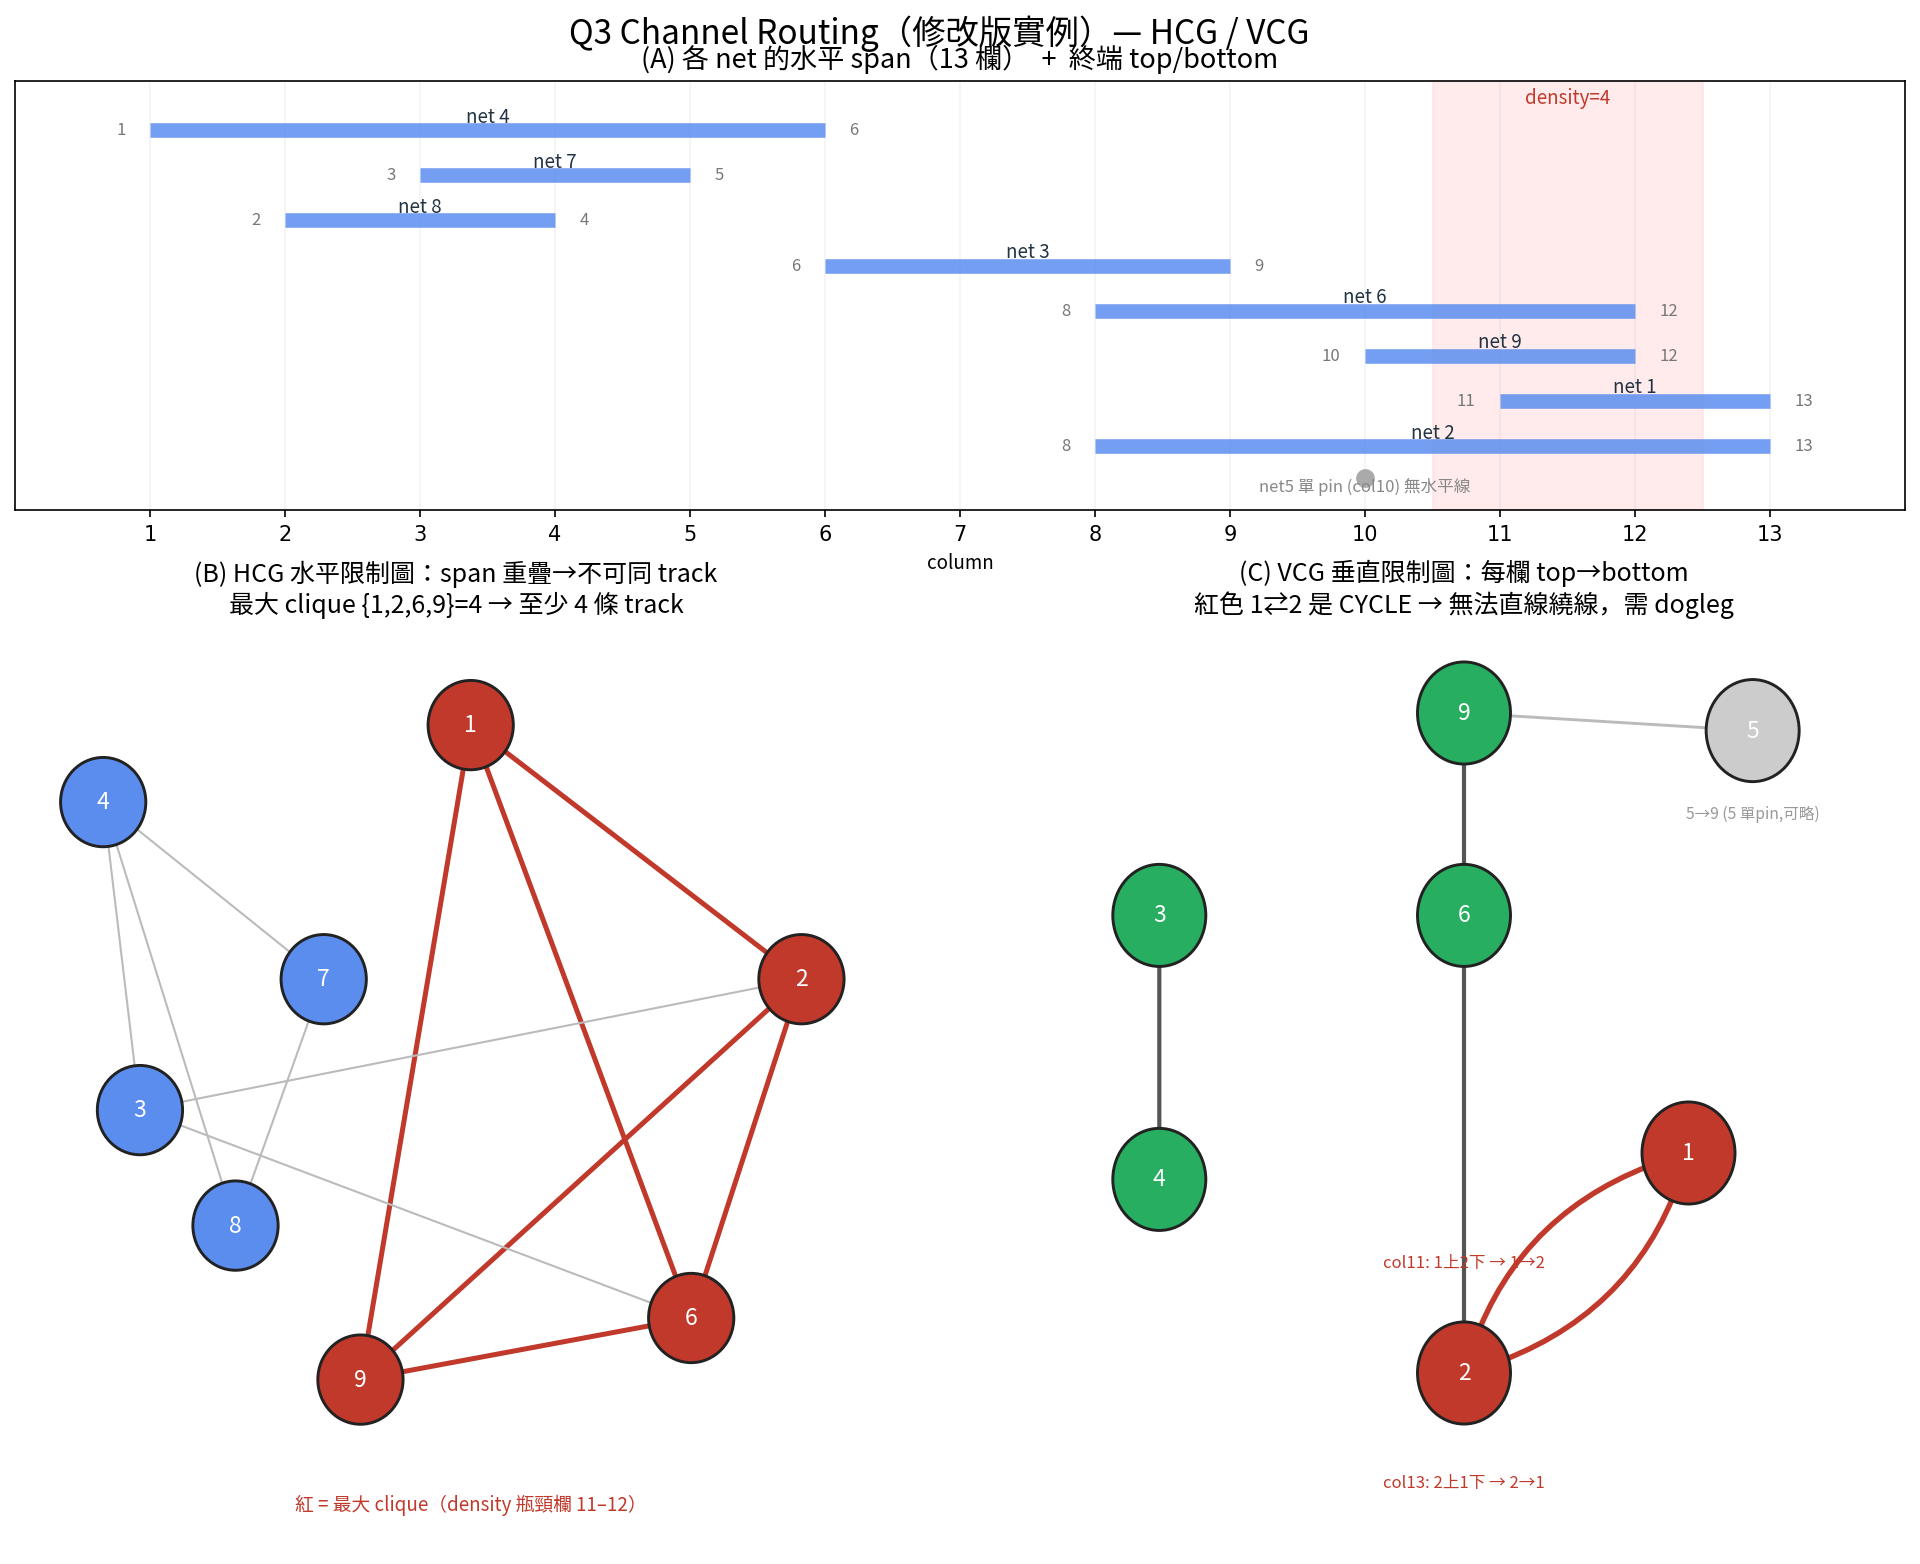
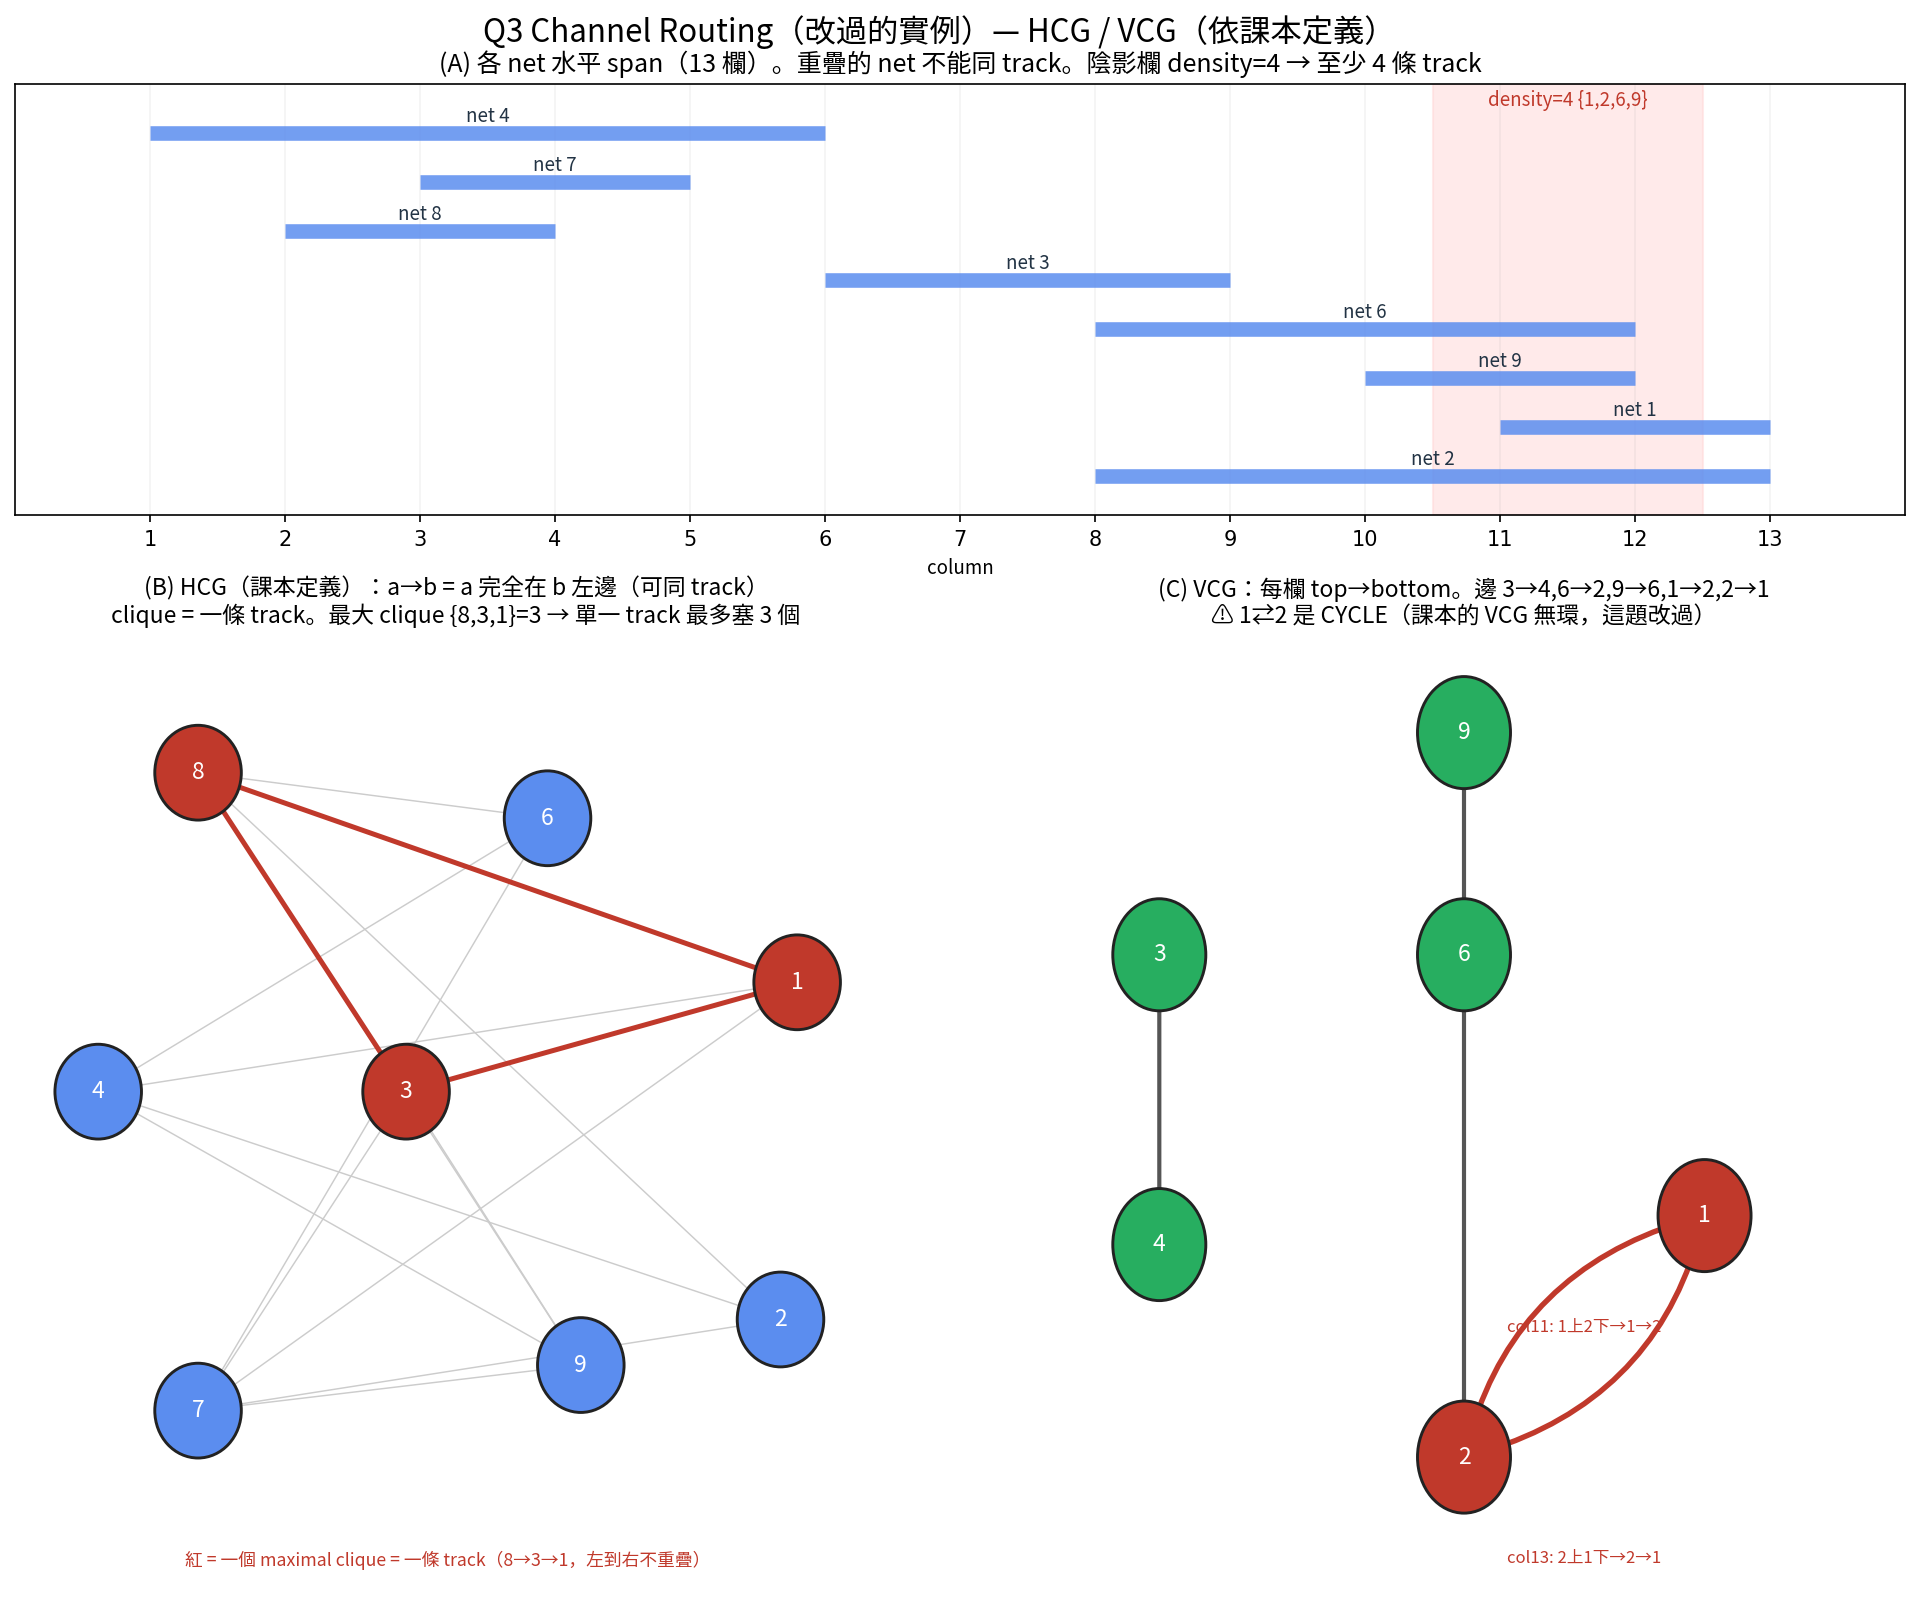
Exam review: Q1 best-first rule, Q2 traceback table, Q3 HCG-convention fix + honest 'PPT has no dogleg', Q4 neutral framing, Q5 implication-graph/SCC explained, Q6 sorting accepted

diff --git a/algorithms/exam-review.html b/algorithms/exam-review.html
@@ -18,6 +18,8 @@
   table.dp{border-collapse:collapse;margin:.6rem 0;font-size:.8rem}
   table.dp td,table.dp th{border:1px solid var(--rule);padding:.25rem .5rem;text-align:center}
   table.dp th{color:var(--mut)}
+  table.tb td.p{background:rgba(240,173,78,.18)}
+  table.tb td.t{background:#f0ad4e;color:#1a1a1a;font-weight:700}
   .tag{font-size:.78rem;color:var(--mut)}
 </style>
 </head><body>
@@ -36,7 +38,7 @@
 <img class="exam-photo" src="exam-q.jpg" alt="期末考考卷照片">
 <p class="tag" style="text-align:center">考卷原圖（2026/6/16）</p>
 
-<div class="note"><strong>先講結論——你最可能被扣分的是 Q4(a)。</strong>你在考卷上把 4(a) 圈成「○（對）」，但正確答案是 <strong>✗（錯）</strong>。下面 Q4 詳述。其餘 Q1、Q2、Q3、Q5–Q8 不管你考卷寫什麼，這裡都給完整正解 + 口頭講法，面試直接用。</p>
+<div class="note"><strong>最值得注意的是 Q4(a)。</strong>考卷上 4(a) 被標成「○（對）」，但<strong>正解是 ✗（錯）</strong>——理由見下方 Q4（根據 P vs NP 尚未證明）。<em>（考卷上的 ○/✗ 標記不一定是你寫的，所以這裡只講「正解是什麼、根據什麼」，不論斷你對或錯。）</em>其餘各題都給完整正解 + 面試口頭講法。</div>
 
 <!-- ============ Q1 ============ -->
 <div class="qcard">
@@ -68,6 +70,16 @@ reduced matrix:
    沿最小下界往下展開 (best-first)，
    再 include 1-5, 4-3, 3-2 … 收斂</pre>
 
+<p><strong>best-first（“best-fit”）節點選擇規則 —— 這就是 branch-and-bound 怎麼挑下一個展開誰：</strong></p>
+<pre class="mx">1. 每個活節點(live node)都帶一個 lower bound。
+2. 永遠展開「lower bound 最小」的那個活節點（= 最有希望的）。
+3. 展開 = 對它的分裂弧 (i→j) 造兩個子節點：
+     include i-j：刪 row i、col j，設 (j,i)=∞ 防 subtour，重 reduce，更新 bound
+     exclude i-j：設 (i,j)=∞，重 reduce，更新 bound（bound 上升 = 該弧 penalty）
+4. 一旦某活節點 bound ≥ 目前最佳完整 tour (incumbent) → prune，不展開。
+5. 當「被選中要展開的節點」本身已是完整 tour → 它保證是最佳解，停。</pre>
+<p>選<strong>分裂弧</strong>的規則：在 reduced matrix 的 0 格裡，挑「<strong>exclusion penalty 最大</strong>」那個（penalty = 同列其他最小 + 同行其他最小）——排除它會把下界推最高，最快縮小搜尋。</p>
+
 <p><strong>③ 最佳解（brute-force 驗證，唯一最佳，次佳=33）：</strong></p>
 <pre class="mx">最佳 tour:  1 → 5 → 4 → 3 → 2 → 1
 成本     :  8 + 8 + 5 + 8 + 3 = 32</pre>
@@ -90,6 +102,11 @@ reduced matrix:
 <tr><th>e</th><td>0</td><td>1</td><td>2</td><td>3</td><td>4</td><td>4</td><td>4</td><td>5</td><td>5</td><td>5</td></tr>
 <tr><th>f</th><td>0</td><td>1</td><td>2</td><td>3</td><td>4</td><td>4</td><td>4</td><td>5</td><td>5</td><td><b>6</b></td></tr></table>
 <p><strong>LCS 長度 = 6</strong>，一條 LCS = <strong><code>b a b d e f</code></strong>（另一條合法答案 <code>bbadef</code> 也對）。</p>
+
+<p><strong>Trace-back 過程（同一張表上畫路線）。</strong>從右下角 <code>L[9][9]</code> 出發：<u>字元相同</u>就<strong>斜走</strong>到左上、並記下那個字元（<span style="background:#f0ad4e;color:#1a1a1a;padding:0 .3rem;border-radius:3px;font-weight:700">金格</span>）；<u>不同</u>就往「上或左較大的那一格」走（<span style="background:rgba(240,173,78,.25);padding:0 .3rem;border-radius:3px">淺色</span>）。金格由上到下收集 = <code>b a b d e f</code>。</p>
+<table class="dp tb"><tr><th></th><th>·</th><th>b</th><th>b</th><th>a</th><th>e</th><th>b</th><th>d</th><th>e</th><th>c</th><th>f</th></tr><tr><th>·</th><td>0</td><td>0</td><td>0</td><td>0</td><td>0</td><td>0</td><td>0</td><td>0</td><td>0</td><td>0</td></tr><tr><th>b</th><td>0</td><td>1</td><td class="t">1</td><td>1</td><td>1</td><td>1</td><td>1</td><td>1</td><td>1</td><td>1</td></tr><tr><th>a</th><td>0</td><td>1</td><td>1</td><td class="t">2</td><td class="p">2</td><td>2</td><td>2</td><td>2</td><td>2</td><td>2</td></tr><tr><th>b</th><td>0</td><td>1</td><td>2</td><td>2</td><td>2</td><td class="t">3</td><td>3</td><td>3</td><td>3</td><td>3</td></tr><tr><th>a</th><td>0</td><td>1</td><td>2</td><td>3</td><td>3</td><td class="p">3</td><td>3</td><td>3</td><td>3</td><td>3</td></tr><tr><th>c</th><td>0</td><td>1</td><td>2</td><td>3</td><td>3</td><td class="p">3</td><td>3</td><td>3</td><td>4</td><td>4</td></tr><tr><th>d</th><td>0</td><td>1</td><td>2</td><td>3</td><td>3</td><td>3</td><td class="t">4</td><td>4</td><td>4</td><td>4</td></tr><tr><th>a</th><td>0</td><td>1</td><td>2</td><td>3</td><td>3</td><td>3</td><td class="p">4</td><td>4</td><td>4</td><td>4</td></tr><tr><th>e</th><td>0</td><td>1</td><td>2</td><td>3</td><td>4</td><td>4</td><td>4</td><td class="t">5</td><td class="p">5</td><td>5</td></tr><tr><th>f</th><td>0</td><td>1</td><td>2</td><td>3</td><td>4</td><td>4</td><td>4</td><td>5</td><td>5</td><td class="t">6</td></tr></table>
+<p class="tag">金格 6 個（=LCS 長度）：(b,col b)→(a,col a)→(b,col b)→(d,col d)→(e,col e)→(f,col f）。遇平手（上=左）時往上走，這裡兩條路徑分別給 babdef / bbadef。</p>
+
 <pre class="mx">驗證 babdef:
 A 位置: b(1) a(2) b(3) d(6) e(8) f(9)   遞增 ✓
 B 位置: b(1) a(3) b(5) d(6) e(7) f(9)   遞增 ✓</pre>
@@ -111,26 +128,28 @@ net5 = 單一終端(col10) → 沒有水平線、可略</pre>
 <p><strong>HCG（水平限制）+ VCG（垂直限制）：</strong></p>
 <img class="qfig" src="exam-q3-hcgvcg.png" alt="HCG and VCG for the channel routing instance">
 <ul>
-<li><strong>HCG</strong>：span 重疊的 net 不能同 track。最大 clique = <strong>{1,2,6,9} = 4</strong> → 至少要 <strong>4 條 track</strong>（= max local density，瓶頸在第 11–12 欄）。</li>
+<li><strong>HCG（課本 Fig 6-41 的定義）</strong>：節點 = net，邊 <code>a→b</code> = 「a 完全在 b 左邊，可以同 track（a 在左）」。<strong>一個 clique = 一條 track</strong>（裡面的 net 兩兩不重疊）。本題最大 clique 例如 <code>{8,3,1}</code>，size <strong>3</strong> → 單一 track 最多塞 3 個 net。<br><span class="tag">注意分清楚：HCG 的 clique（=track，最大 3）≠ track 數的下界。下界是另一個量 ↓。</span></li>
+<li><strong>下界 = max local density = 4</strong>（第 11–12 欄同時被 net 1,2,6,9 蓋住）。這就是 A* 的 <code>h</code>。所以 <strong>至少 4 條 track</strong>。</li>
 <li><strong>VCG</strong>：每欄 top net 必須在 bottom net 之上。邊：3→4、6→2、9→6、1→2、2→1。<strong>⚠ 1→2 和 2→1 形成 cycle</strong>（col11 是 1 上 2 下、col13 是 2 上 1 下）。</li>
 </ul>
-<div class="note"><strong>這題改過的「陷阱」就是這個 VCG cycle。</strong>有 cycle 代表<strong>沒辦法用直線（無 dogleg）排線</strong>——net1 要在 net2 上、net2 又要在 net1 上，互相矛盾。必須對 net 2 做 <strong>dogleg</strong>（把它拆成左右兩段、用一段垂直線換 track），才能左邊在 net1 下、右邊在 net1 上。</div>
+<div class="note"><strong>⚠ 老實說：投影片從頭到尾<u>沒有提過 dogleg</u>，課本範例的 VCG 是<u>無環</u>的（1→2, 3→4, 5→6）。</strong>這題被改成有 <strong>cycle 1⇄2</strong>，已經<strong>超出投影片教的範圍</strong>。cycle 代表 net1 要在 net2 上、net2 又要在 net1 上互相矛盾——純用課本的單線 A* 排不出來。要真的繞完，得對 net 2 做 <strong>dogleg</strong>（把它拆成左右兩段、中間用一段垂直線換 track），這是一般 channel routing 的標準技巧，但<strong>不在這門課的投影片裡</strong>。面試時這點要老實講，不要硬掰成課本方法。</div>
 
 <p><strong>A* track-assignment 搜尋</strong>（<code>f = g + h</code>，g = 已用 track 數，h = 剩餘 nets 的 max local density，是 admissible 下界）：</p>
 <img class="qfig" src="exam-q3-astar.png" alt="A* search tree for track assignment with deadlock and dogleg">
-<p>A* 一條 track 一條 track 往下排：先 {7,3,9} → {8,6} → {4}，f 一路維持 4。剩 net1、net2 時撞上 <strong>VCG cycle 死結</strong>，A* 在這裡 dogleg net2 → 完成，<strong>共 5 條 track</strong>（下界 density 是 4，cycle 逼出第 5 條）。</p>
-<div class="say">「我先建 <strong>HCG</strong>，最大 clique 4 = max local density，所以至少 4 條 track。再建 <strong>VCG</strong>，發現 <strong>net1 跟 net2 形成 cycle</strong>（col11 一個順序、col13 相反順序）。這代表純直線排不出來，要對 net2 做 <strong>dogleg</strong>。A* 用 <code>f = g + h</code>，g 是已用 track 數、h 是剩下 nets 的 max density 當下界，每次展開 f 最小的；排到 net1、net2 撞死結就 dogleg。最後 <strong>5 條 track</strong>。重點是我有抓到 VCG 那個 cycle——這題跟課本不一樣，就是故意加了這個 cycle。」</div>
+<p><strong>課本的 A* 怎麼跑（Fig 6-46/6-48）：</strong>root 的子節點 = HCG 的各個 <strong>maximal clique</strong>（每個 clique = 候選的第一條 track），但要符合 VCG（一條 track 只能放「沒有別的 net 一定要在它上面、且那些 net 還沒排」的 net）。<code>g</code> = 已用 track 數，<code>h</code> = 剩餘 nets 的 max local density，<strong>展開 <code>f=g+h</code> 最小的節點</strong>。</p>
+<p>本題 A* 先排 {7,3,9} → {8,6} → {4}（f 一路 4），剩 net1、net2 時撞上 <strong>VCG cycle 死結</strong>（兩個互相要在對方上面）→ <strong>課本 A* 到此做不完</strong>。要完成必須 dogleg net2（投影片外），補一條 track → <strong>5 條 track</strong>；下界 density 仍是 4。</p>
+<div class="say">「方法：建 <strong>HCG</strong>（課本定義：邊=可同 track，clique=一條 track，最大 clique 3）、建 <strong>VCG</strong>（每欄上→下）。下界用 <strong>max local density = 4</strong>。A* 的 root 分支就是 HCG 的 maximal cliques、<code>f = g + h</code>（g=已用 track，h=剩餘 density），展開 f 最小的。<strong>關鍵：我發現 VCG 有 cycle 1⇄2</strong>（col11 跟 col13 順序相反）——這跟課本不一樣，課本 VCG 無環、也沒教 dogleg。所以老實說，純課本 A* 在這裡會卡住；要排完得對 net2 做 dogleg（一般 channel routing 技巧），最後 5 條 track。我會強調我有<strong>抓到這個 cycle</strong>，這就是這題被改的重點。」</div>
 </div>
 
 <!-- ============ Q4 ============ -->
 <div class="qcard">
 <h3>Q4 · 判斷對錯並解釋（15%）</h3>
-<p><strong>(a)</strong> 「If a problem is NP-complete, then there can never be a polynomial algorithm to solve it in worst cases.」　<span class="verdict v-wrong">正解：✗ 錯（你圈了 ○，扣分點）</span></p>
-<p>「永遠不可能有多項式解」是<strong>沒被證明</strong>的——這正是 P vs NP 未解問題。如果哪天 P=NP，NP-complete 問題就<strong>會</strong>有多項式解。所以「never」把一個未證明的事當成定論，是錯的。</p>
-<p><strong>(b)</strong> 「A is NP-complete. Since B is polynomially reducible to A, B must be NP-complete.」　<span class="verdict v-ok">正解：✗ 錯（你寫 ✗，對了）</span></p>
-<p>方向反了。<code>B ∝ A</code>（B reduce 到 A）只代表 <strong>B 不會比 A 難</strong>，B 甚至可能在 P 裡。要證 B 是 NPC，必須把<strong>已知的 NPC reduce 到 B</strong>（<code>A ∝ B</code>），再證 B ∈ NP。</p>
-<p><strong>(c)</strong> 「If the lower bound of an NP-complete problem is exponential, then NP ≠ P.」　<span class="verdict v-ok">正解：○ 對（你圈 ○，對了）</span></p>
-<p>指數下界 = 該 NPC 問題<strong>沒有</strong>多項式解 → 它不在 P。但 NPC 問題在 NP 裡，「某個 NPC ∉ P」就等於 P ≠ NP。</p>
+<p><strong>(a)</strong> 「If a problem is NP-complete, then there can never be a polynomial algorithm to solve it in worst cases.」　<span class="verdict v-wrong">正解：✗ 錯</span> <span class="tag">（考卷標 ○，但 ○ 是錯的）</span></p>
+<p><strong>根據：P vs NP 至今未證明。</strong>「永遠不可能有多項式解」是<u>沒被證明</u>的——若哪天 P=NP，NP-complete 問題就<strong>會</strong>有多項式解。所以「never」把一個未證明的事當成定論，是錯的。</p>
+<p><strong>(b)</strong> 「A is NP-complete. Since B is polynomially reducible to A, B must be NP-complete.」　<span class="verdict v-wrong">正解：✗ 錯</span></p>
+<p><strong>根據：NP-complete 的定義（reduction 方向）。</strong><code>B ∝ A</code>（B reduce 到 A）只代表 <strong>B 不會比 A 難</strong>，B 甚至可能在 P 裡。要證 B 是 NPC，必須把<strong>已知的 NPC reduce 到 B</strong>（<code>A ∝ B</code>），再證 B ∈ NP。方向剛好反了。</p>
+<p><strong>(c)</strong> 「If the lower bound of an NP-complete problem is exponential, then NP ≠ P.」　<span class="verdict v-ok">正解：○ 對</span></p>
+<p><strong>根據：P 的定義 + NPC ⊆ NP。</strong>指數下界 = 該 NPC 問題<u>沒有</u>多項式解 → 它不在 P。但 NPC 問題在 NP 裡，「某個 NPC ∉ P」就等於 P ≠ NP。</p>
 <div class="say">「(a) 是錯的——重點在『never』。我們<strong>沒有證明</strong> NPC 沒有多項式解，那就是 P vs NP，至今未解；若 P=NP 它就有多項式解。所以不能說『永遠不可能』。(b) 也是錯的，reduction <strong>方向</strong>要反過來：B reduce 到 A 只說 B 不比 A 難，要證 B 難必須把已知 NPC reduce 到 B。(c) 對：指數下界代表這個 NPC 不在 P，而它在 NP，所以 P≠NP。」</div>
 </div>
 
@@ -145,13 +164,29 @@ net5 = 單一終端(col10) → 沒有水平線、可略</pre>
   若存在某變數 x 使 x 與 ¬x 在同一個 SCC → 不可滿足
   否則 → 可滿足（照 SCC 的反拓樸序讀出真值）</pre>
 <p>因為線性可解 → 在 P → 不可能是 NP-complete（除非 P=NP）。對比：<strong>3SAT 才是 NP-complete</strong>，2→3 個 literal 就是難易的分界。</p>
-<div class="say">「Disprove。2SAT 在 <strong>P</strong> 裡——用 implication graph，每個 (x∨y) 變成 ¬x→y、¬y→x，跑 SCC，只要沒有變數 x 跟 ¬x 落在同一個 SCC 就可滿足，<strong>O(n+m) 線性</strong>。在 P 裡就不可能是 NPC。要小心的是 <strong>3SAT 才是 NPC</strong>，差一個 literal 難度就跳掉了。」</div>
+
+<div class="note"><strong>什麼是 implication graph（蘊含圖）？</strong><br>
+一個有向圖。每個變數 <code>x</code> 拆成<strong>兩個節點</strong>：<code>x</code>（真）和 <code>¬x</code>（假），所以 n 個變數 → 2n 個節點。<br>
+子句 <code>(a ∨ b)</code> 的意思是「至少一個為真」，等價於兩條<strong>蘊含</strong>：<em>若 a 假則 b 必真</em> → <code>¬a → b</code>；<em>若 b 假則 a 必真</em> → <code>¬b → a</code>。每個 2-子句畫這兩條有向邊。<br>
+<span class="tag">例：子句 (x1 ∨ ¬x2) → 邊 ¬x1→¬x2 和 x2→x1。</span></div>
+
+<div class="note"><strong>什麼是 SCC（strongly connected component，強連通分量）？</strong><br>
+有向圖裡的一群節點，<strong>任兩個之間都互相走得到</strong>（u 走得到 v、v 也走得到 u）的最大集合。可用 Tarjan / Kosaraju 在 <strong>O(n+m)</strong> 求出。<br>
+在 implication graph 裡，同一個 SCC 的節點「真值必須一致（同生同死）」。所以<strong>若 <code>x</code> 和 <code>¬x</code> 落在同一個 SCC → 矛盾（x 必須等於 ¬x）→ 不可滿足</strong>；只要每個變數的 x 與 ¬x 都在<u>不同</u> SCC，就可滿足，照 SCC 的反拓樸序指派真值即可。</div>
+
+<div class="say">「Disprove。2SAT 在 <strong>P</strong>。作法：建 <strong>implication graph</strong>——每個變數拆成 x 和 ¬x 兩個節點，每個子句 (a∨b) 變成兩條蘊含邊 ¬a→b、¬b→a。再求 <strong>SCC</strong>（強連通分量，O(n+m)）：只要沒有任何變數的 x 跟 ¬x 落在<u>同一個</u> SCC，就可滿足。整體 <strong>線性時間</strong>，所以在 P 裡、不可能是 NPC。對比 <strong>3SAT 才是 NPC</strong>，差一個 literal 難度就跳了。」</div>
 </div>
 
 <!-- ============ Q6 ============ -->
 <div class="qcard">
 <h3>Q6 · How to find the median of n numbers（10%）</h3>
-<p>這是 <strong>selection 問題</strong>（找第 k 小，median = 第 ⌈n/2⌉ 小）。<strong>median-of-medians（prune-and-search）→ 最壞 O(n)</strong>：</p>
+
+<div class="note"><strong>先回答你的疑問：「排序後取第 ⌈n/2⌉ 個」算不算對？</strong><br>
+<strong>算對。</strong>排序 → 取第 ⌈n/2⌉ 個（中間那個）<u>確實會得到正確的 median</u>，而且題目只問「how to find」、<strong>沒有限制複雜度</strong>，所以這是個合法答案，複雜度 <strong>O(n log n)</strong>。<br>
+但是——這題就是這門課的 <strong>selection 主題</strong>（你考卷旁邊也寫了「選擇問題」）。老師要的「滿分答案」八成是 <strong>O(n) 的 median-of-medians</strong>，考點就在「不用排序也能線性找到」。<br>
+<strong>面試保險講法：</strong>「最簡單是排序後取中間，O(n log n)；但更好、也是這章的重點，是用 <strong>selection / median-of-medians 做到最壞 O(n)</strong>」——先承認排序可行，再亮出線性解，兩邊都顧到。</div>
+
+<p><strong>selection 問題</strong>（找第 k 小，median = 第 ⌈n/2⌉ 小）。<strong>median-of-medians（prune-and-search）→ 最壞 O(n)</strong>：</p>
 <pre class="mx">1. 每 5 個一組 → 各組找中位數
 2. 對「這些中位數」遞迴找中位數 → 當 pivot
 3. 用 pivot 把資料 partition 成 < / >